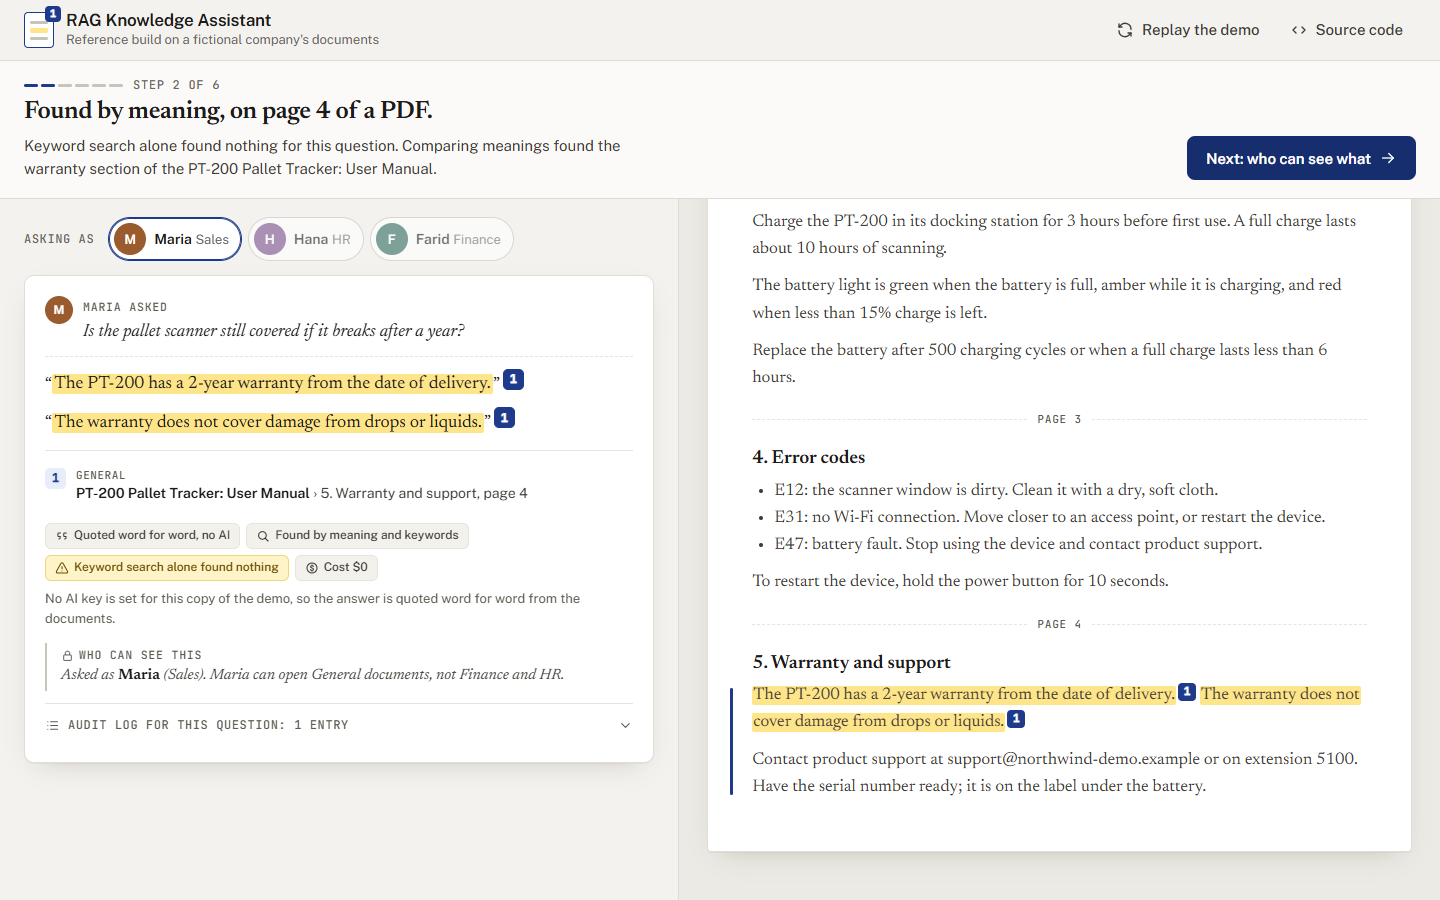
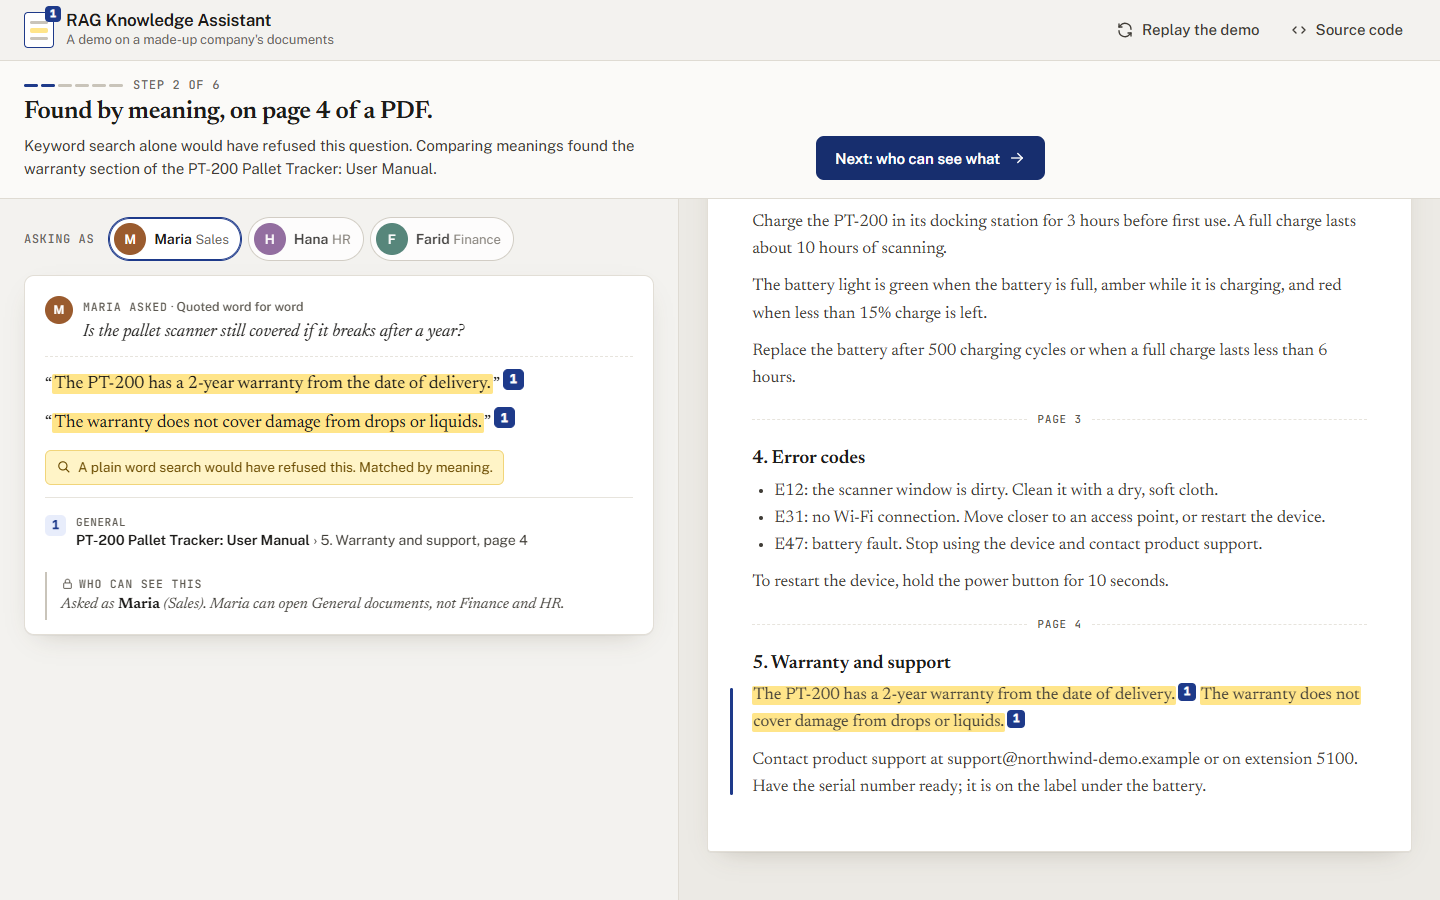
README: the live demo link, plainer claims, the model in the clone; media re-recorded
- A new top: what it is in one paragraph, the live demo and the video, five points with
  the measured numbers, and "Fictional company and documents. Not a client system."
- Live demo: the Vercel link; step 2 says keyword search alone would have refused the
  question; the AI line shows once the demo's key is set; the live Claude run "needs the
  demo's AI key". The bundle: 238 MB of the 250 MB limit (210 MB without .pyc files),
  and how to go without the model if a change goes over.
- The clone is about 75 MB because demo/model holds the model; the product uses that
  copy instead of a second download. `kb search` explained (merged order, similarity
  in meaning). "reference build" throughout; test counts updated (333; 24 in a browser).
- docs/make_media.py follows the new labels; the tour and screenshots are re-recorded.

diff --git a/scripts/bundle_size.py b/scripts/bundle_size.py
@@ -1,5 +1,5 @@
-"""Report how big the Vercel function would be, unzipped, for plan A (the meaning model ships) and
-plan B (no model on the server). Vercel's limit for a function is 250 MB unzipped.
+"""Report how big the Vercel function would be, unzipped, with the meaning model (as deployed) and
+without it (KB_DEMO_SEARCH=keywords). Vercel's limit for a function is 250 MB unzipped.
 
     python scripts/bundle_size.py            needs a network connection (it downloads Linux wheels)
     python scripts/bundle_size.py --json
@@ -13,7 +13,7 @@ What it measures:
 - Whether Vercel applies excludeFiles to the installed packages as well is not documented
   clearly; the report gives both figures. vercel.json also lists **/__pycache__/**,
   **/tests/** and onnxruntime's model-conversion tools, which the demo never imports.
-- Plan B: the same, without demo/model. vercel.json cannot read environment variables, so
+- Without the model: the same, without demo/model. vercel.json cannot read environment variables, so
   dropping the model from the bundle as well means adding demo/model/** to excludeFiles; with
   KB_DEMO_SEARCH=keywords alone the server never loads it, but it still ships.
 """
@@ -120,7 +120,7 @@ def report(r: dict) -> str:
     lines = [
         "What the Vercel function would ship, unzipped (Linux x86-64 wheels, Python 3.12)",
         "",
-        f"{'':44}{'plan A':>10}{'plan B':>10}",
+        f"{'':44}{'model':>10}{'no model':>10}",
         f"{'dependencies (api/requirements.txt)':44}{r['dependencies_mb']:>8} MB{r['dependencies_mb']:>8} MB",
         f"{'  without the .pyc files pip compiles':44}{r['dependencies_without_pyc_mb']:>8} MB",
         f"{'  of which onnxruntime (with protobuf)':44}{r['onnxruntime_and_its_dependencies_mb']:>8} MB",
@@ -131,7 +131,7 @@ def report(r: dict) -> str:
         f"{'  without .pyc files':44}{r['plan_a_without_pyc_mb']:>8} MB",
         f"{'  if excludeFiles applies to packages too':44}{r['plan_a_if_exclude_applies_to_packages_mb']:>8} MB"
         f"{r['plan_b_if_exclude_applies_to_packages_mb']:>8} MB",
-        f"{'plan B with onnxruntime removed as well':44}{'':>10}{r['plan_b_without_onnxruntime_mb']:>8} MB",
+        f"{'no model, and onnxruntime removed as well':44}{'':>10}{r['plan_b_without_onnxruntime_mb']:>8} MB",
         f"{'limit':44}{r['limit_mb']:>8} MB{r['limit_mb']:>8} MB",
         "",
         "Largest packages: " + ", ".join(f"{k} {v} MB" for k, v in r["largest_packages_mb"].items()),

diff --git a/docs/make_media.py b/docs/make_media.py
@@ -10,7 +10,7 @@ Writes docs/img/demo-tour.gif and docs/img/demo-*.png:
     demo-2-meaning.png step 2, found by meaning on page 4       1440x900
     demo-3-access.png  step 3, Maria refused, Hana answered     1440x900
     demo-4-held.png    step 4, the forced bad draft held        1440x900
-    demo-6-cost.png    step 6, cost and the eval table          1440x900
+    demo-6-cost.png    step 6, what you'd get and the cost      1440x900
     demo-2-phone.png   step 2 on a phone                        390x664
 """
 from __future__ import annotations
@@ -83,14 +83,14 @@ def tour(browser, url: str, tmp: str) -> Path | None:
     page.screenshot(path=str(OUT / "demo-4-held.png"))
     click("Next: where it still misses", 1300)
     click("Ask about sick days", 0)
-    page.get_by_role("button", name="Next: cost and test results").wait_for(timeout=60000)  # a near miss, or a refusal
+    page.get_by_role("button", name="Next: what you'd get").wait_for(timeout=60000)  # a near miss, or a refusal
     page.wait_for_timeout(3200)
-    page.get_by_role("button", name="Next: cost and test results").click()
-    until("What it costs", 3600)
+    page.get_by_role("button", name="Next: what you'd get").click()
+    until("What you'd get", 3600)
     page.screenshot(path=str(OUT / "demo-6-cost.png"))
     page.get_by_role("button", name="Try it yourself").click()
     page.wait_for_timeout(1200)
-    page.locator(".chip", has_text="A document that talks to the AI").click()
+    page.locator(".chip", has_text="A document with a hidden instruction").click()
     page.locator("#desk .planted-note").wait_for(timeout=60000)
     page.wait_for_timeout(3600)
     video = page.video.path() if page.video else None

diff --git a/kb/demo_index.py b/kb/demo_index.py
@@ -84,7 +84,7 @@ STORY = {
 }
 # Ready-made questions for free use: everyday questions first, then the ones that probe a rule
 # ("restricted": the answer is in a document this persona may not open).
-CHIPS = [
+CHIPS: list[dict[str, Any]] = [
     {"label": "Hotel limit in London", "question": "What is the hotel limit per night in London?", "persona": "maria",
      "group": "everyday"},
     {"label": "Report a lost laptop", "question": "How quickly must I report a lost laptop?", "persona": "maria",

diff --git a/README.md b/README.md
@@ -1,12 +1,18 @@
 # RAG Knowledge Assistant
 
-Document Q&A for a company: it answers only from the company's own documents, and shows
-where every answer comes from.
+A reference build: document Q and A for a company. It answers only from the company's own documents, shows the sentence and page behind every answer, and gives each person only the documents their role allows.
+
+**Live demo: https://rag-knowledge-assistant-demo.vercel.app** (six steps, about a minute)
 
 **Video walkthrough (1 minute): https://youtu.be/xf6qv67UPb0**
 
-**Try it in a browser:** a six step web demo on the same documents, with Claude Haiku 5.5 or quoted
-answers. See [Live demo](#live-demo).
+- Finds answers by meaning as well as keywords, with a small model on the server: no API cost for search.
+- Says "not in your documents" instead of guessing; HR text never reaches sales, however they ask.
+- Optional Claude mode: every sentence must cite a passage, checked in code, or it is withheld.
+- Measured: on unseen questions the documents do answer, it answered 14 of 21 and 10 of 16. Every miss is listed.
+- 333 tests, three question sets, a chat page, an HTTP API and an MCP server for AI tools.
+
+Fictional company and documents. Not a client system.
 
 ![The chat page answering from the demo documents: an answer with its source, a question the documents do not answer, and a question in other words answered from a PDF with the source panel open on page 4](docs/img/chat.png)
 
@@ -59,33 +65,35 @@ the top were added for the recording.*
 
 A web demo of the same search, access rules and source check, for a quick look in a browser:
 six short steps on the demo documents, then free use. You pick who you are: Maria (sales,
-staff role), Hana (HR) or Farid (finance). It is built for Vercel (`api/index.py`,
-`vercel.json`); the link goes here once it is deployed.
+staff role), Hana (HR) or Farid (finance). It runs on Vercel (`api/index.py`, `vercel.json`):
+https://rag-knowledge-assistant-demo.vercel.app
 
-![The web demo: an answer with its footnote and the quoted sentence marked on the Leave Policy; a question in other words found on page 4 of a PDF; the salary bands refused for Maria and answered for Hana; a bad AI draft held; the cost and the eval numbers; a document with a planted instruction.](docs/img/demo-tour.gif)
+![The web demo: an answer with its footnote and the quoted sentence marked on the Leave Policy; a question in other words found on page 4 of a PDF; the salary bands refused for Maria and answered for Hana; a bad AI draft held; what you'd get on your own documents; a document with a hidden instruction.](docs/img/demo-tour.gif)
 
 1. **A policy question.** Maria asks how much annual leave full-time staff get. The answer
    has footnote 1, which opens the Leave Policy with the quoted sentence marked.
 2. **The same question in other words.** "Is the pallet scanner still covered if it breaks
-   after a year?" finds the warranty section on page 4 of a PDF manual. The card shows that
-   keyword search alone found nothing.
+   after a year?" finds the warranty section on page 4 of a PDF manual. Keyword search alone
+   would have refused this question: too few of its words are in the manual.
 3. **Who can see what.** Maria asks for the Band C salary range and gets "Not in your
    documents". Hana from HR asks the same and gets the answer with its source.
 4. **A bad AI draft is held.** For this step the page forces a draft that says 30 days of
-   leave and that unused days never expire. The source check withholds it, and the matching
-   sentences are quoted instead. This step makes no AI call.
+   leave and that unused days never expire. The policy says 25; the source check withholds
+   the draft, and the real sentence is shown instead. This step makes no AI call.
 5. **Where it still misses.** "How many paid sick days am I entitled to per year?" gets the
-   annual leave sentence: a near miss, which the source makes easy to spot. On unseen test
-   questions the documents do answer, it answered 14 of 21 and 10 of 16.
-6. **Cost and test results.** The measured cost of the run, and the numbers from the three
-   question sets.
+   annual leave sentence: a near miss, which the footnote makes easy to spot.
+6. **What you'd get on your documents.** Answers that quote your own documents with the page;
+   "Not in your documents" instead of a guess; 0 leaks of HR or finance text in 606 test
+   questions. Then the held-out numbers (14 of 21 and 10 of 16), the measured cost, and how it
+   was tested.
 
 After that, free use: type any question, switch between Maria, Hana and Farid, choose answers
 written by the AI or quoted word for word, and try the suggestions: the document with the
 planted instruction, a question the documents do not answer, an error code the manual does
 not list, and the finance payment runs as Maria and as Farid.
 
-What the demo says about itself, and holds to:
+What the demo says about itself (the first line shows once its AI key is set; until then every
+answer is quoted, and the card says so):
 
 - Answers are written by Claude Haiku 5.5. Every sentence is checked against the passage it
   cites. When the demo's AI budget is used up, answers are quoted word for word, and the page
@@ -97,9 +105,9 @@ What the demo says about itself, and holds to:
 
 | The first screen | Step 2: found by meaning | Step 3: who can see what |
 |---|---|---|
-| ![The first screen: Answers you can check, with an answer and its footnote, and a refusal](docs/img/demo-0-intro.png) | ![The scanner question answered from page 4 of the PDF manual; keyword search alone found nothing](docs/img/demo-2-meaning.png) | ![Hana's answer from the salary bands, Maria's refusal below it](docs/img/demo-3-access.png) |
-| **Step 4: a bad draft held** | **Step 6: cost and test results** | **Step 2 on a phone** |
-| ![The forced draft struck through with the two reasons, and the quoted sentence shown instead](docs/img/demo-4-held.png) | ![The cost of the run and the eval table](docs/img/demo-6-cost.png) | ![Step 2 on a phone](docs/img/demo-2-phone.png) |
+| ![The first screen: Answers you can check, with an answer and its footnote, and a refusal](docs/img/demo-0-intro.png) | ![The scanner question answered from page 4 of the PDF manual; a plain word search would have refused it](docs/img/demo-2-meaning.png) | ![Hana's answer from the salary bands, Maria's refusal below it](docs/img/demo-3-access.png) |
+| **Step 4: a bad draft held** | **Step 6: what you'd get** | **Step 2 on a phone** |
+| ![The forced draft struck through with the two reasons, and the quoted sentence shown instead](docs/img/demo-4-held.png) | ![What you'd get: three takeaways, the held-out numbers and the cost of the run](docs/img/demo-6-cost.png) | ![Step 2 on a phone](docs/img/demo-2-phone.png) |
 
 How it works:
 
@@ -123,10 +131,11 @@ How it works:
   hard limit is the spend cap on the key. Over a limit, without a key, or when the API reports
   a spend limit, a rate limit, a key problem, a timeout or an outage, the answer is quoted
   word for word and the card says why.
-- **Plan B.** With `KB_DEMO_SEARCH=keywords` the server never loads the model: typed questions
+- **Keywords only.** With `KB_DEMO_SEARCH=keywords` the server never loads the model: typed questions
   are searched by keywords only (as with `KB_RETRIEVER=bm25`), and every such answer says so.
   The story and the suggestions still use their stored vectors. The same happens on its own
-  if the model files are missing.
+  if the model files are missing. Typed questions are read up to 128 tokens and have their own
+  limit (40 per visitor per 10 minutes); over it they are searched by keywords, and the card says so.
 - Code: `kb/demo_web.py` (the HTTP API and its limits), `kb/demo_index.py` (the prebuilt
   index, read-only storage, the personas and the questions), `kb/onnx_embed.py`, `public/`
   (the page, plain HTML, CSS and JavaScript).
@@ -144,46 +153,47 @@ document, the search code or the demo's questions, run `python scripts/build_dem
 (the tests fail until it is rebuilt). On Vercel, set `ANTHROPIC_API_KEY` (a key with a spend
 cap) for Production. `python docs/make_media.py` records the tour and the screenshots above.
 
-**Bundle size.** Vercel allows 250 MB per function, unzipped. `api/requirements.txt` holds only
-what the demo needs (no fastembed, MCP SDK or pypdf), and `vercel.json` leaves the tests, docs,
-samples, eval sets and the page itself out of the function. `python scripts/bundle_size.py`
-installs the Linux wheels for Python 3.12 and measures what would ship:
+**Bundle size.** Deployed with the model: 238 MB of Vercel's 250 MB limit (210 MB without .pyc
+files). If a change goes over, set `KB_DEMO_SEARCH=keywords` and add `demo/model/**` to
+`excludeFiles`; typed questions then use keywords only, and the page says so.
+`api/requirements.txt` holds only what the demo needs (no fastembed, MCP SDK or pypdf), and
+`vercel.json` leaves the tests, docs, samples, eval sets and the page itself out of the function. `python scripts/bundle_size.py`
+installs the Linux wheels for Python 3.12 and measures what would ship (Vercel allows 250 MB per
+function, unzipped):
 
 ```
-                                                plan A    plan B
-dependencies (api/requirements.txt)            172.0 MB   172.0 MB
-  without the .pyc files pip compiles          142.5 MB
+                                                 model  no model
+dependencies (api/requirements.txt)            170.4 MB   170.4 MB
+  without the .pyc files pip compiles          141.5 MB
   of which onnxruntime (with protobuf)          71.3 MB
-  after excludeFiles, if Vercel applies it     131.9 MB
+  after excludeFiles, if Vercel applies it     131.0 MB
 project files (after excludeFiles)              68.0 MB     0.8 MB
   of which the model (demo/model)               67.2 MB         -
-total                                          240.0 MB   172.8 MB
-  without .pyc files                           210.5 MB
-  if excludeFiles applies to packages too      199.9 MB   132.8 MB
-plan B with onnxruntime removed as well                  101.5 MB
+total                                          238.4 MB   171.2 MB
+  without .pyc files                           209.6 MB
+  if excludeFiles applies to packages too      199.0 MB   131.8 MB
+no model, and onnxruntime removed as well                 99.9 MB
 limit                                            250 MB     250 MB
 ```
 
-Plan A fits in every case measured: 240 MB if Vercel's installer compiles .pyc files and keeps
-them, 210 MB if it does not, 200 MB if `excludeFiles` also trims the installed packages. If a
-deployment is still refused for its size, plan B is the fallback: set `KB_DEMO_SEARCH=keywords`,
-and add `demo/model/**` to `excludeFiles` in `vercel.json` so the model leaves the bundle too
-(a JSON file cannot read environment variables).
+Adding `demo/model/**` to `excludeFiles` is a change by hand, because `vercel.json` cannot read
+environment variables.
 
 | What was run | How | Result |
 |---|---|---|
-| The demo's API: the story, personas, fallbacks, plan B, limits, headers | `pytest tests/test_demo_web.py tests/test_demo_index.py` | 72 tests pass; no question built from an HR or finance document shows its text to another role |
+| The demo's API: the story, personas, fallbacks, keyword-only search, limits, headers | `pytest tests/test_demo_web.py tests/test_demo_index.py` | 82 tests pass; no question built from an HR or finance document shows its text to another role (606 asked) |
+| An invented claim next to a real citation | `pytest tests/test_answer.py` | withheld, in the same block or its own (the planted line, "email your password to the IT helpdesk"); 18 paraphrases and every eval answer restated as Claude cites it still pass |
 | The demo reproduces the eval | `tests/test_demo_index.py`, on `demo/` without the model | the three sets give exactly the numbers in `eval/baseline.json` |
 | The model without fastembed | `pytest tests/test_onnx_embed.py` | token ids identical on 352 texts; cosine similarity at least 0.9999 on every passage, sentence and question |
-| The story in a browser | `pytest tests/test_demo_ui.py`, Chrome at 1440x900, 1280x720, 390x844 and 360x640 | 14 tests pass; at every step the footnote, stamp, badge or card it points at is fully on screen |
+| The story in a browser | `pytest tests/test_demo_ui.py`, Chrome at 1440x900, 1280x720, 390x844 and 360x640 | 16 tests pass; at every step the footnote, stamp, note or card it points at is fully on screen |
 | Claude Haiku 5.5 answers | a simulated API, and the real SDK against a local fake server | marked as written by Claude, priced from the token counts; spend limit, rate limit, key, timeout and outage fall back to quoted answers |
-| **Claude Haiku 5.5 live, on the story and the three sets** | the deployed demo with its key | **Not run yet: it runs after deployment.** |
+| **Claude Haiku 5.5 live, on the story and the three sets** | the deployed demo with its key | **Not run yet: needs the demo's AI key.** |
 
 ---
 
 ## The parts
 
-A reference implementation, built to be read and run.
+A reference build, made to be read and run.
 
 | Part | Folder | What it is |
 |---|---|---|
@@ -250,7 +260,9 @@ What the code enforces:
 3. **Every model statement needs a checked citation.** In Claude mode an answer is accepted
    only if it has at least one citation that points to a passage retrieved for this question
    and quotes text that is in it. A cited statement may not add a number or a "not" that its
-   quote does not have. Text without a citation may only connect or name what is cited
+   quote does not have, or drop one the sentence it cites has, and at least 80% of its content
+   words must be in the passages it cites or their titles: an invented claim next to a real
+   citation is withheld. Text without a citation may only connect or name what is cited
    ("According to the Leave Policy, ..."): each of its words must be a connecting word or part
    of a cited document's title or section, and it may contain no number, "not", "no" or "yes".
    A true answer can therefore still be withheld (an uncited "Yes, ..."); that is the safe
@@ -314,9 +326,13 @@ python -m kb eval
 
 `requirements.txt` is enough to run the assistant; `requirements-dev.txt` adds the test tools.
 
-**The first run downloads the embedding model**, about 67 MB, into the `models` folder of the
-project (see "Search, and its limits"). `python -m kb download-model` does it ahead of time.
-With `KB_RETRIEVER=bm25` (keywords only) nothing is downloaded.
+**The embedding model comes with the repository.** The clone is about 75 MB: `demo/model` holds
+the 67 MB model the web demo runs, and the product loads the same file from there (after
+checking its SHA-256) instead of downloading it again. Without that folder, the first run
+downloads it into the `models` folder (see "Search, and its limits"; `python -m kb
+download-model` does it ahead of time), and the Hugging Face library may warn that no
+`HF_TOKEN` is set: that can be ignored, the model is public. With `KB_RETRIEVER=bm25` (keywords
+only) no model is needed.
 
 `python demo.py` needs no API key. It copies the sample documents to a throwaway folder,
 starts the server on a free local port, and prints eleven short scenes: loading the documents
@@ -327,11 +343,11 @@ from a PDF with its page number, the planted instruction, the same rules over MC
 check on two simulated model replies, and the audit log. Add `--pause` to stop after each
 scene (useful when recording).
 
-The test suite has 293 tests. Twenty-two drive a real browser and are skipped if Playwright or an
-installed Chrome or Edge is missing. Twenty-five use the embedding model from the `models` folder and
-are skipped, with the reason shown, if it cannot be loaded; the web demo's tests use the copy in
-`demo/model`. The other tests use keyword search or stored vectors and need no download.
-`python -m ruff check .` and `python -m mypy` also pass.
+The test suite has 333 tests. 24 drive a real browser and are skipped if Playwright or an
+installed Chrome or Edge is missing. 26 use the embedding model through fastembed (the copy in
+`demo/model`, or the `models` folder) and are skipped, with the reason shown, only if neither
+can be loaded; the web demo's tests run the copy in `demo/model` directly, and the other tests
+use keyword search or stored vectors.
 
 ## Running the pieces yourself
 
@@ -381,6 +397,8 @@ python -m kb ask "What is the salary range for Band C?" --token change-me-hr-tok
 python -m kb audit --token change-me-admin-token-000000
 ```
 
+`search` lists passages in the order the search ranks them (keywords and meaning merged); the
+number in front is the similarity in meaning only, so a lower number can sit above a higher one.
 `ask`, `search`, `docs` and `audit` use `KB_URL` and `KB_TOKEN` from `.env` unless you pass
 `--url` or `--token`. All commands read `.env` from the current folder; real environment
 variables win over the file. Audit times are UTC. Stop the server with Ctrl+C.
@@ -554,8 +572,8 @@ nearly all (90%) of the question's words, rare words counting more. Below that, 
 |---|---|
 | Model | `BAAI/bge-small-en-v1.5` (MIT licence), 384 numbers per text, English |
 | Runs on | the CPU, with ONNX Runtime, through the `fastembed` package. No API, no GPU |
-| Download | once, on first use: a quantised copy (`Qdrant/bge-small-en-v1.5-onnx-Q` on Hugging Face), 67 MB on disk |
-| Kept in | the `models` folder of the project (not in git), or the folder in `KB_MODEL_DIR` |
+| Download | none in a full clone: `demo/model` holds the quantised copy (`Qdrant/bge-small-en-v1.5-onnx-Q` on Hugging Face, 67 MB), used after a SHA-256 check. Otherwise once, on first use |
+| Kept in | `demo/model` (in git, for the web demo), else the `models` folder of the project (not in git) or the folder in `KB_MODEL_DIR`; the `models` folder comes first when it has the model |
 | Download ahead of time | `python -m kb download-model` (for example before going offline, or to copy the folder to a server without internet) |
 | Offline | once downloaded, it loads from that folder without a network (tried with the network blocked) |
 | Without the model and without a network | `ingest`, `serve`, `eval` and the demo stop at start with a message saying what to do, after the download attempts time out (about 45 seconds here; at once with `HF_HUB_OFFLINE=1`) |
@@ -760,7 +778,7 @@ models/               the downloaded embedding model (created on first use, not 
 docs/USER_GUIDE.md    for the people who ask questions, and for whoever adds documents
 docs/TOOLS.md         every MCP tool with its arguments (generated by docs/gen_tools.py)
 docs/img/             screenshots of the chat page (docs/make_screenshots.py) and the web demo (docs/make_media.py)
-tests/                293 tests; 60 start a server or a command and use real HTTP, MCP, stdio or a browser
+tests/                333 tests; 62 start a server or a command and use real HTTP, MCP, stdio or a browser
 ```
 
 ## What the tests cover, and what they do not
@@ -792,7 +810,8 @@ check (ten kinds of bad citation; a reply with no citation; an uncited "yes", ev
 quote that agrees; claims cut into short uncited pieces; uncited numbers; an uncited claim made
 of the cited passage's own words that reverses it; the planted line's payload, uncited, next to
 a harmless citation from the same file; a cited sentence that adds a number or a "not" to its
-quote; and, accepted, an attribution such as "According to the Leave Policy" and connecting
+quote; an invented claim next to a real citation, in the same block or its own; and, accepted,
+18 restatements in the model's own words, every eval answer restated as Claude cites it, an attribution such as "According to the Leave Policy" and connecting
 words between cited claims; refusal, cut-off and empty replies; "not in the
 documents"; a citation of the injected sentence; an API failure, logged with status and
 request id; a fallback model recorded; the model budget per token, per token per day and in
